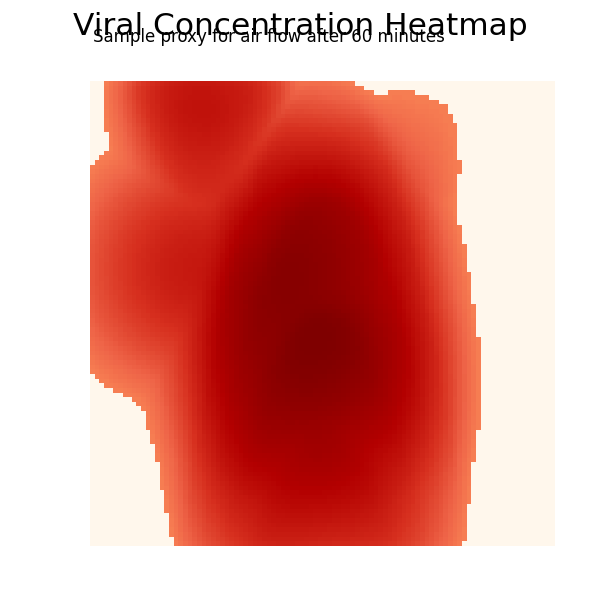
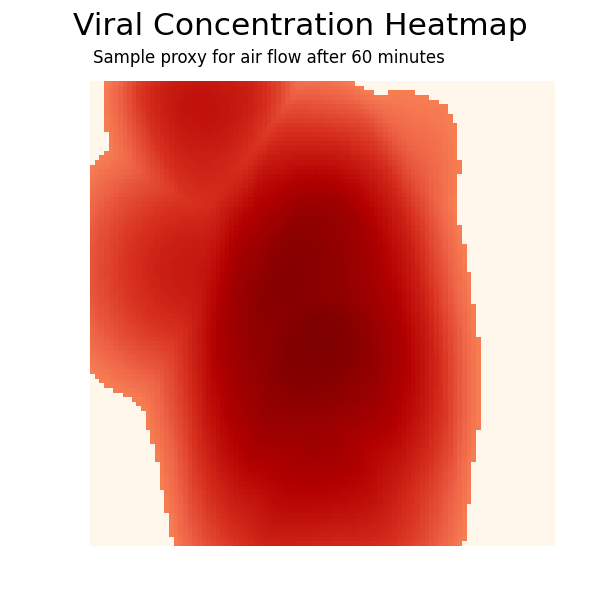
upd

Changed region(s): [[0.15, 0.03, 0.75, 0.12]]

diff --git a/av.py b/av.py
@@ -278,7 +278,7 @@ class user_viz():
         plt.gcf().set_size_inches(2,2)
         plt.suptitle('Viral Concentration Heatmap', fontsize=7.5)
         plt.axis('off')
-        plt.text(.1, .01, 'Sample proxy for air flow after ' + str(self.duration) + ' minutes', fontsize=4)
+        plt.text(.1, .01, '\nSample proxy for air flow after ' + str(self.duration) + ' minutes\n', fontsize=4)
         plt.savefig(output_filepath + '_concentration.png', dpi=300)
         plt.close()
 
